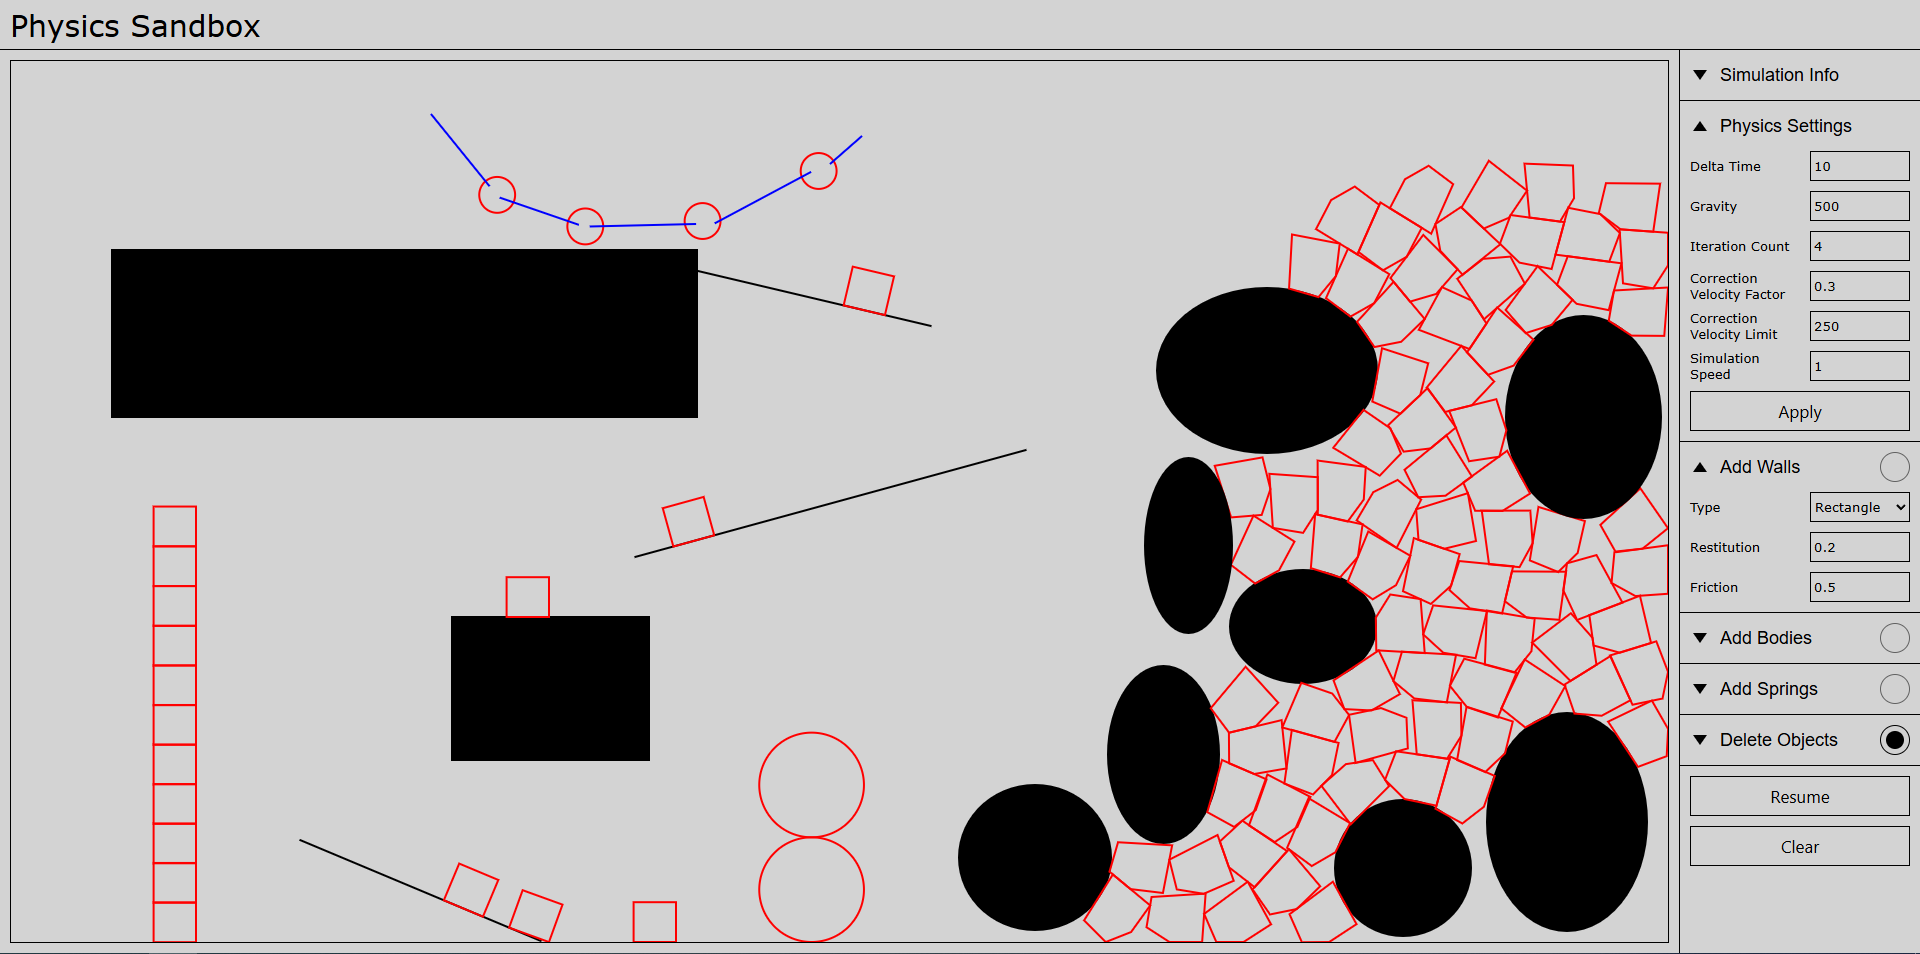
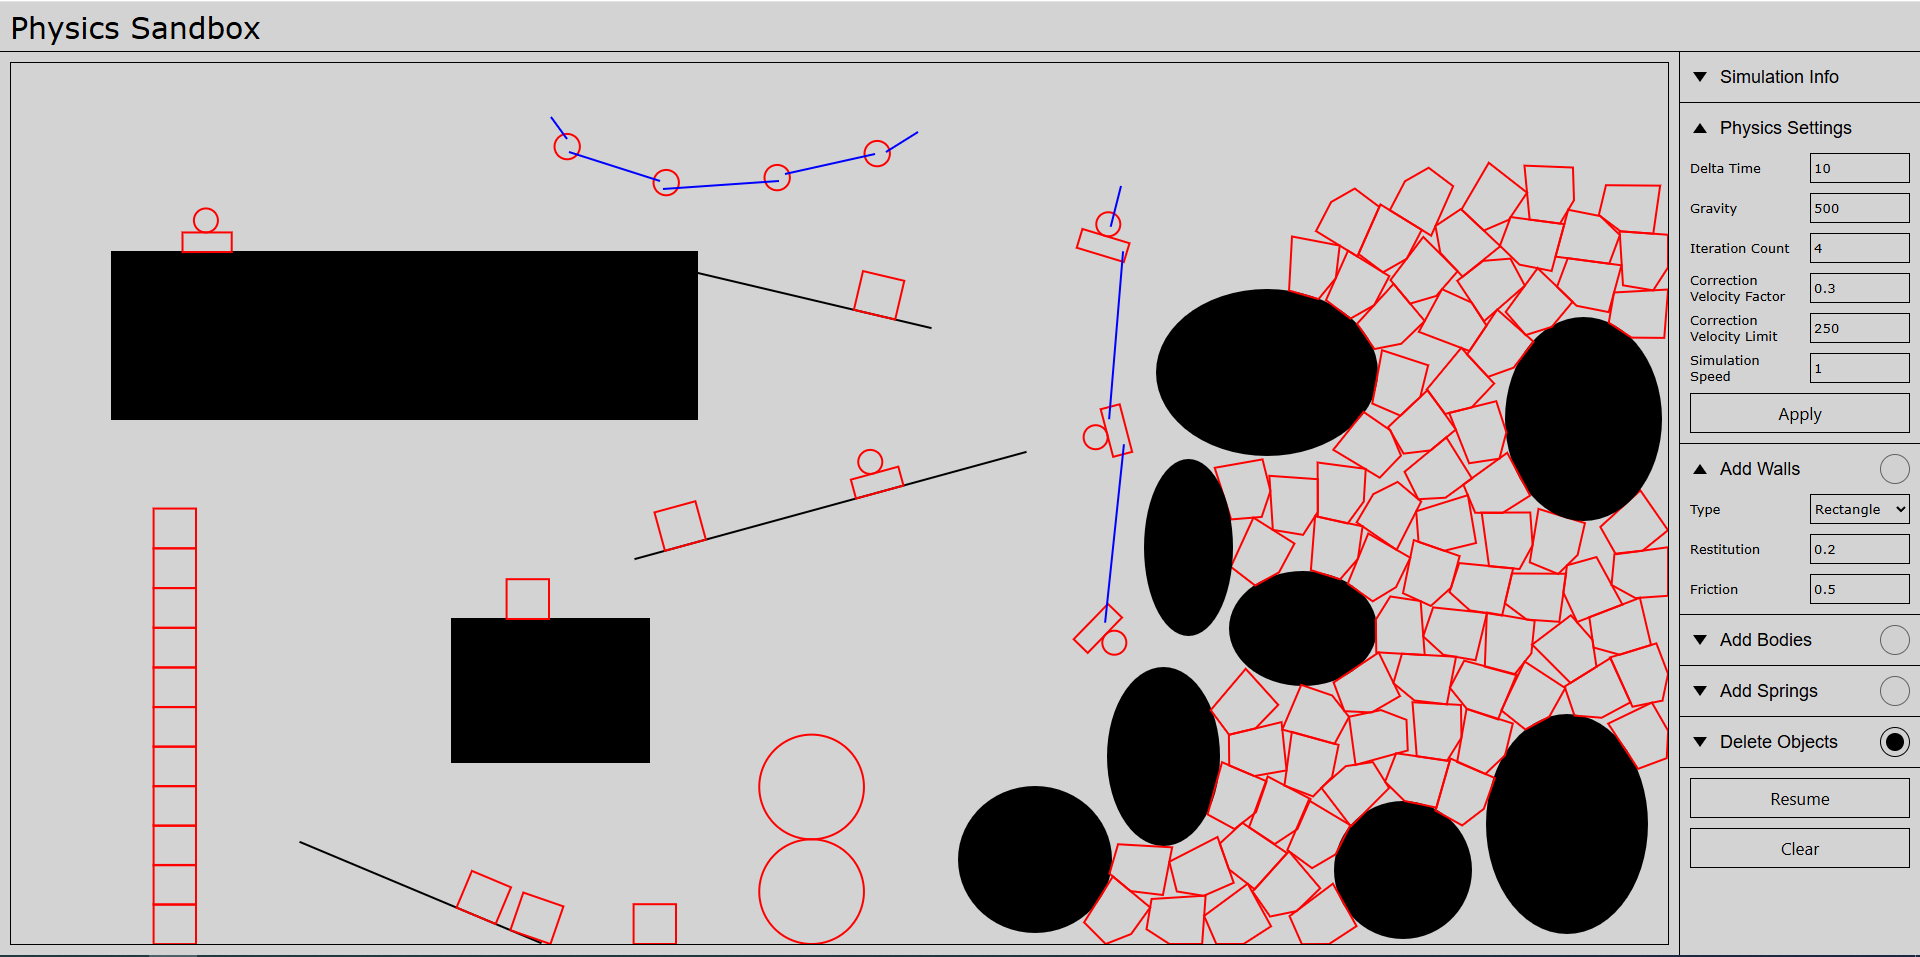
Updated readme

diff --git a/docs/README.md b/docs/README.md
@@ -72,6 +72,6 @@ Hosted at: https://themolish.netlify.app
 
 ## Screenshots
 
-<img src="screenshot1.png" />
-<img src="screenshot2.png" />
+<img src="screen1.png" />
+<img src="screen2.png" />
 
